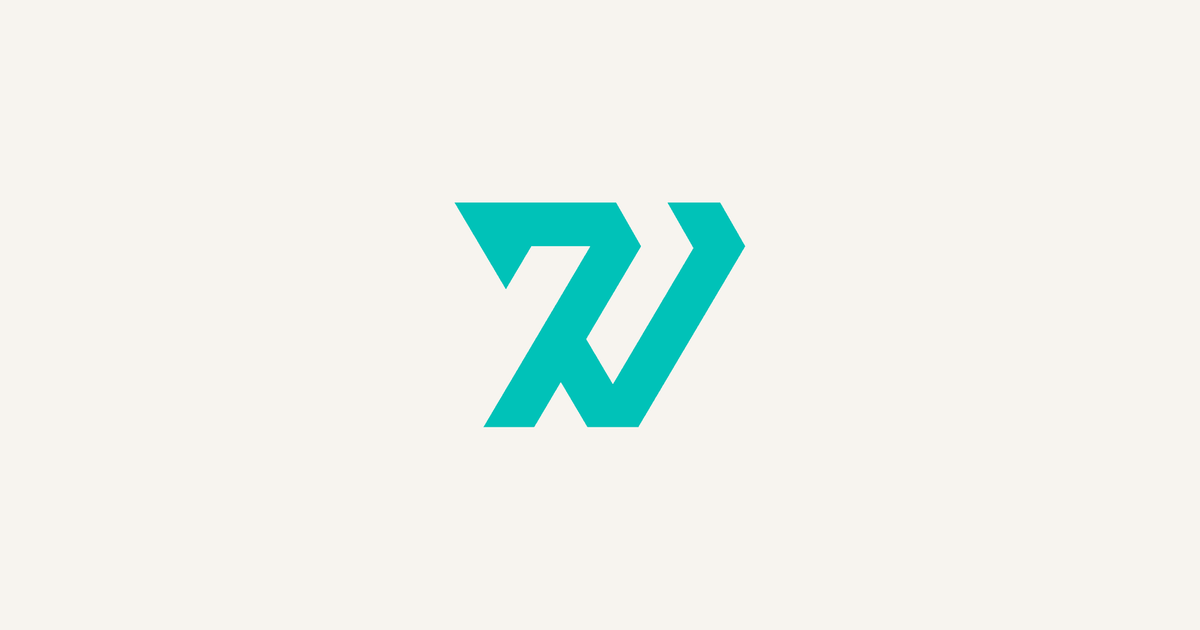
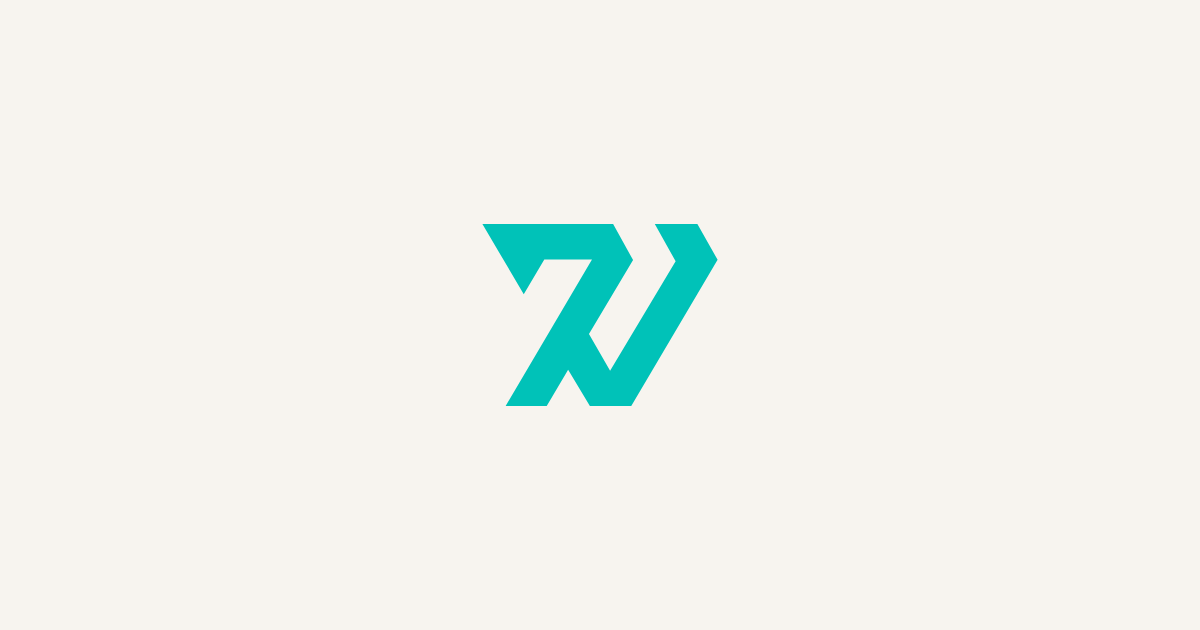
change brand assets

Changed region(s): [[0.37, 0.3016, 0.6167, 0.6937]]

diff --git a/app/src/app/globals.css b/app/src/app/globals.css
@@ -80,36 +80,36 @@
   --font-system-mono:
     ui-monospace, "SF Mono", "SFMono-Regular", Menlo, Monaco, monospace;
 
-  /* Warm pearl canvas + electric cyan-teal accent (#00C2B8). */
+  /* Warm pearl canvas + locked accent #00C2B8 (logo tiles / CTAs). */
   --background: oklch(0.972 0.008 85);
   --foreground: oklch(0.22 0.012 160);
   --card: oklch(0.995 0.004 85);
   --card-foreground: oklch(0.22 0.012 160);
   --popover: oklch(0.995 0.004 85 / 0.92);
   --popover-foreground: oklch(0.22 0.012 160);
-  --primary: oklch(0.72 0.12 185);
-  --primary-foreground: oklch(0.99 0.01 185);
-  --link: oklch(0.58 0.11 185);
+  --primary: oklch(0.734 0.127 188);
+  --primary-foreground: oklch(0.99 0.01 188);
+  --link: oklch(0.58 0.11 188);
   --success: oklch(0.58 0.13 155);
   --success-foreground: oklch(0.99 0 0);
   --secondary: oklch(0.945 0.01 85);
   --secondary-foreground: oklch(0.28 0.02 160);
   --muted: oklch(0.94 0.01 85);
   --muted-foreground: oklch(0.5 0.02 160);
-  --accent: oklch(0.94 0.02 185);
-  --accent-foreground: oklch(0.28 0.04 185);
+  --accent: oklch(0.94 0.02 188);
+  --accent-foreground: oklch(0.28 0.04 188);
   --destructive: oklch(0.58 0.16 25);
   --border: oklch(0.88 0.012 85);
   --input: oklch(0.93 0.01 85);
-  --ring: oklch(0.72 0.12 185);
+  --ring: oklch(0.734 0.127 188);
   --card-frame: oklch(0.86 0.014 85);
   --card-shadow: oklch(0.45 0.02 160 / 0.1);
   --grouped: oklch(0.995 0.004 85 / 0.78);
   --grouped-foreground: oklch(0.22 0.012 160);
   --verified: var(--success);
-  --aura: oklch(0.78 0.1 185 / 0.45);
+  --aura: oklch(0.78 0.1 188 / 0.45);
   --aura-secondary: oklch(0.9 0.05 85 / 0.55);
-  --chart-1: oklch(0.55 0.08 185);
+  --chart-1: oklch(0.55 0.08 188);
   --chart-2: oklch(0.65 0.1 200);
   --chart-3: oklch(0.7 0.08 90);
   --chart-4: oklch(0.58 0.1 155);
@@ -127,12 +127,12 @@
 
   --sidebar: oklch(0.972 0.008 85);
   --sidebar-foreground: oklch(0.22 0.012 160);
-  --sidebar-primary: oklch(0.72 0.12 185);
-  --sidebar-primary-foreground: oklch(0.99 0.01 185);
-  --sidebar-accent: oklch(0.94 0.02 185);
-  --sidebar-accent-foreground: oklch(0.28 0.04 185);
+  --sidebar-primary: oklch(0.734 0.127 188);
+  --sidebar-primary-foreground: oklch(0.99 0.01 188);
+  --sidebar-accent: oklch(0.94 0.02 188);
+  --sidebar-accent-foreground: oklch(0.28 0.04 188);
   --sidebar-border: oklch(0.88 0.012 85);
-  --sidebar-ring: oklch(0.72 0.12 185);
+  --sidebar-ring: oklch(0.734 0.127 188);
 
   --rarity-mythic: oklch(0.55 0.22 350);
   --rarity-mythic-bg: oklch(0.55 0.22 350 / 0.1);

diff --git a/app/src/components/brand/revibase-mark.tsx b/app/src/components/brand/revibase-mark.tsx
@@ -4,21 +4,35 @@ import { cn } from "@/lib/utils";
 const REVIBASE_MARK_PATH =
   "M8 17.54 L22.77 42.56 L30.11 30.16 L47.14 30.16 L16.3 82.46 L30.97 82.46 L38.62 69.52 L46.39 82.46 L61.16 82.46 L92 30.27 L84.78 17.54 L69.57 17.54 L77.01 30.81 L53.61 69.95 L46.06 56.79 L61.81 30.37 L54.69 17.54 Z";
 
-/** Geometric Revibase monogram — fill follows `currentColor`. */
+/**
+ * Logo lockups (shape constant; color by context):
+ * - `master` — charcoal; production / chrome / fashion-ready default
+ * - `digital` — brand accent on pearl UIs (boot, live signal)
+ */
+export type RevibaseMarkVariant = "master" | "digital";
+
+const variantClass: Record<RevibaseMarkVariant, string> = {
+  master: "text-foreground",
+  digital: "text-primary",
+};
+
+/** Geometric Revibase monogram — single-color; prefer `master` unless signaling brand energy. */
 export function RevibaseMark({
   className,
   title,
+  variant = "master",
 }: {
   className?: string;
   /** Accessible name when the mark stands alone. Omit when adjacent text names the brand. */
   title?: string;
+  variant?: RevibaseMarkVariant;
 }) {
   return (
     <svg
       xmlns="http://www.w3.org/2000/svg"
       viewBox="0 0 100 100"
       fill="currentColor"
-      className={cn("shrink-0", className)}
+      className={cn("shrink-0", variantClass[variant], className)}
       aria-hidden={title ? undefined : true}
       role={title ? "img" : undefined}
     >

diff --git a/app/src/lib/copy/phygital.ts b/app/src/lib/copy/phygital.ts
@@ -8,11 +8,26 @@
  * Titles name what the screen is; subtitles show current state.
  */
 
+const pearl = "#F7F4EF";
+const charcoal = "#1A1F1E";
+const accent = "#00C2B8";
+
 export const brand = {
   company: "Revibase",
   /** Hex for PWA / OG / viewport chrome (Luminous Object pearl / warm dark). */
-  chromeLight: "#F7F4EF",
-  chromeDark: "#1A1F1E",
+  chromeLight: pearl,
+  chromeDark: charcoal,
+  /**
+   * Locked identity colors. Shape is constant; color follows context.
+   * - Master mark: charcoal (production / fashion / engrave)
+   * - Digital default: accent on pearl
+   * - App tiles / splash icons: pearl on accent field
+   */
+  colors: {
+    accent,
+    pearl,
+    charcoal,
+  },
   /**
    * Default meta / PWA description — product, not company slogan.
    * Screen titles still come from `products.*`.

diff --git a/app/src/components/layout/route-boot.tsx b/app/src/components/layout/route-boot.tsx
@@ -29,10 +29,10 @@ export function RouteBoot({
         aria-label={message}
       >
         <div
-          className={cn("relative z-10 text-primary", galleryAnimate.rise)}
+          className={cn("relative z-10", galleryAnimate.rise)}
           aria-hidden
         >
-          <RevibaseMark className="size-10 opacity-90" />
+          <RevibaseMark variant="digital" className="size-10 opacity-90" />
         </div>
         <div
           className={cn(

diff --git a/app/src/app/manifest.ts b/app/src/app/manifest.ts
@@ -17,7 +17,7 @@ export default function manifest(): MetadataRoute.Manifest {
     theme_color: brand.chromeLight,
     icons: [
       {
-        src: "/revibase-mark-teal-on-dark.png",
+        src: "/revibase-mark-pearl-on-teal.png",
         sizes: "512x512",
         type: "image/png",
         purpose: "any",

diff --git a/app/src/components/token/collectible-orb.tsx b/app/src/components/token/collectible-orb.tsx
@@ -121,7 +121,7 @@ export function CollectibleOrb({
               onError={() => setFailedSrc(src!)}
             />
           ) : (
-            <RevibaseMark className={icon} />
+            <RevibaseMark variant="digital" className={icon} />
           )}
         </div>
       </div>
